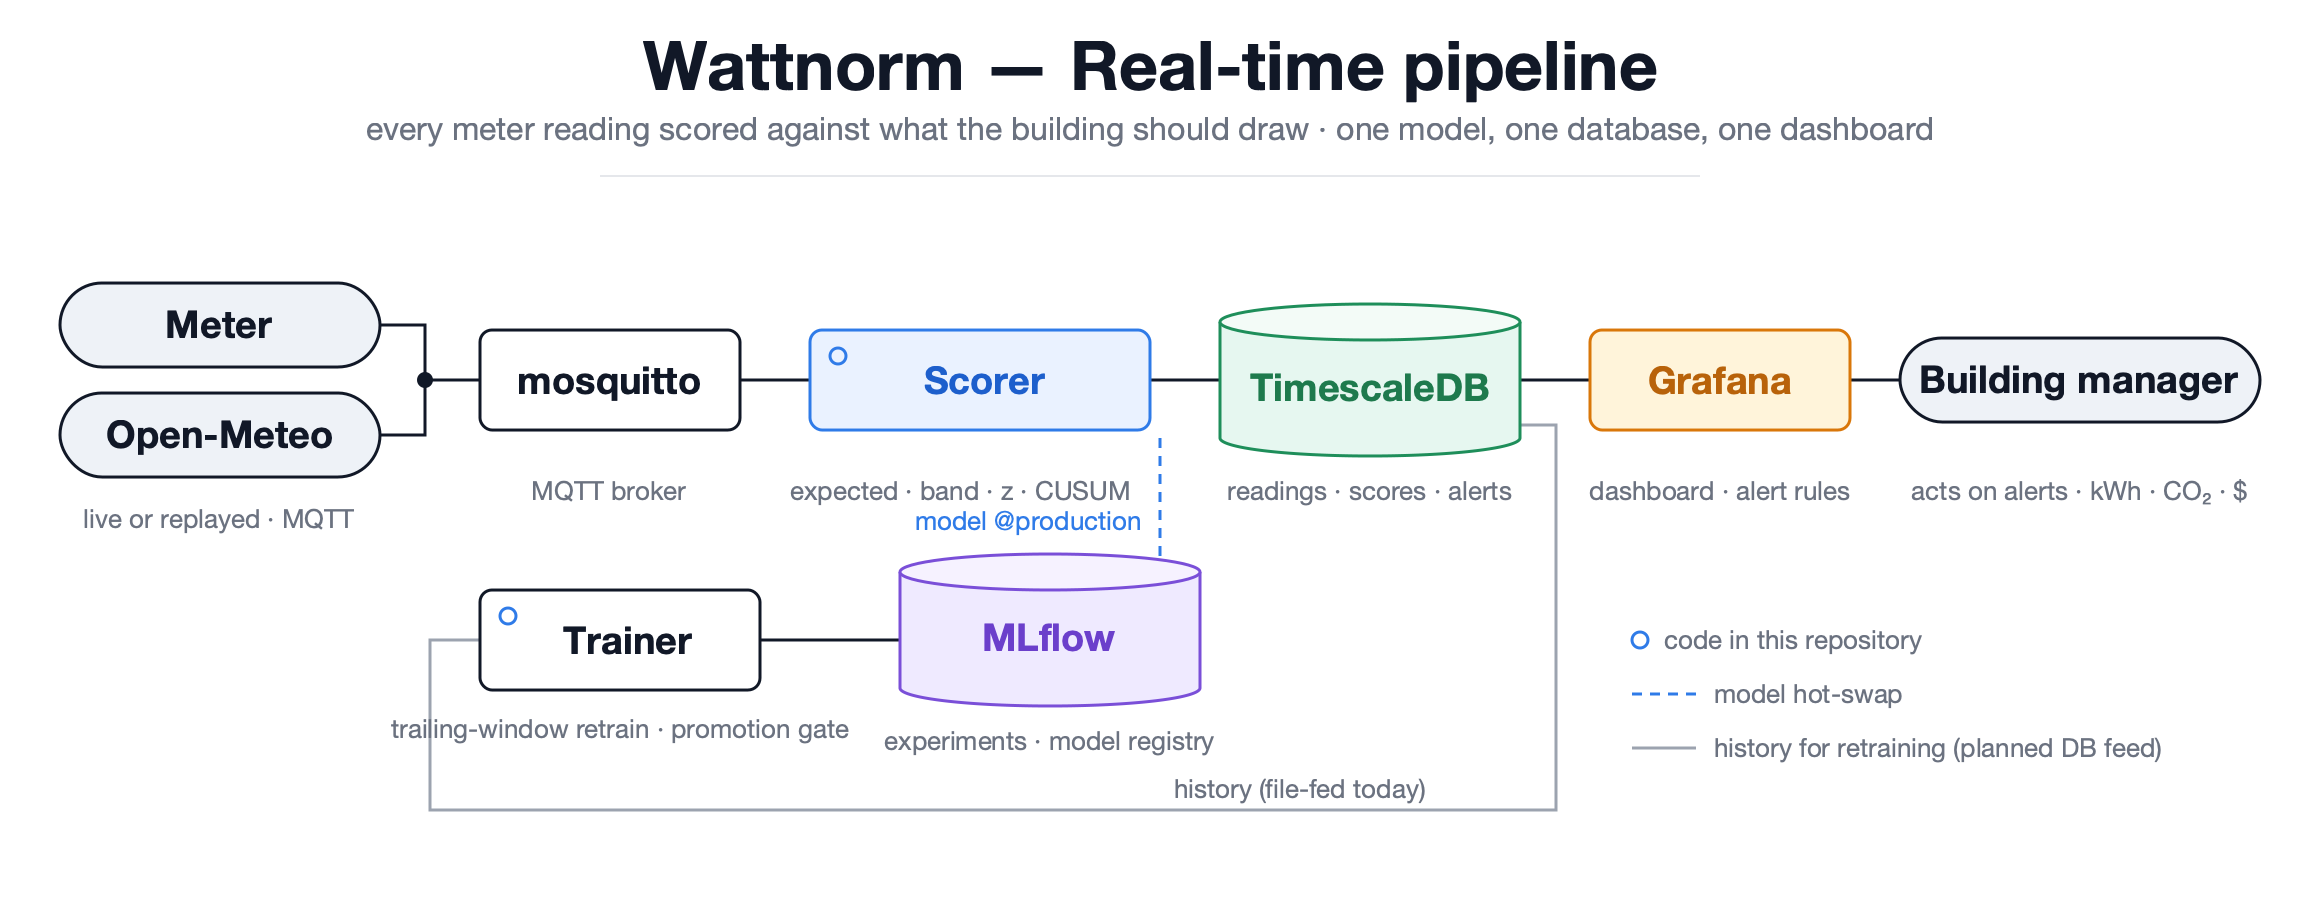
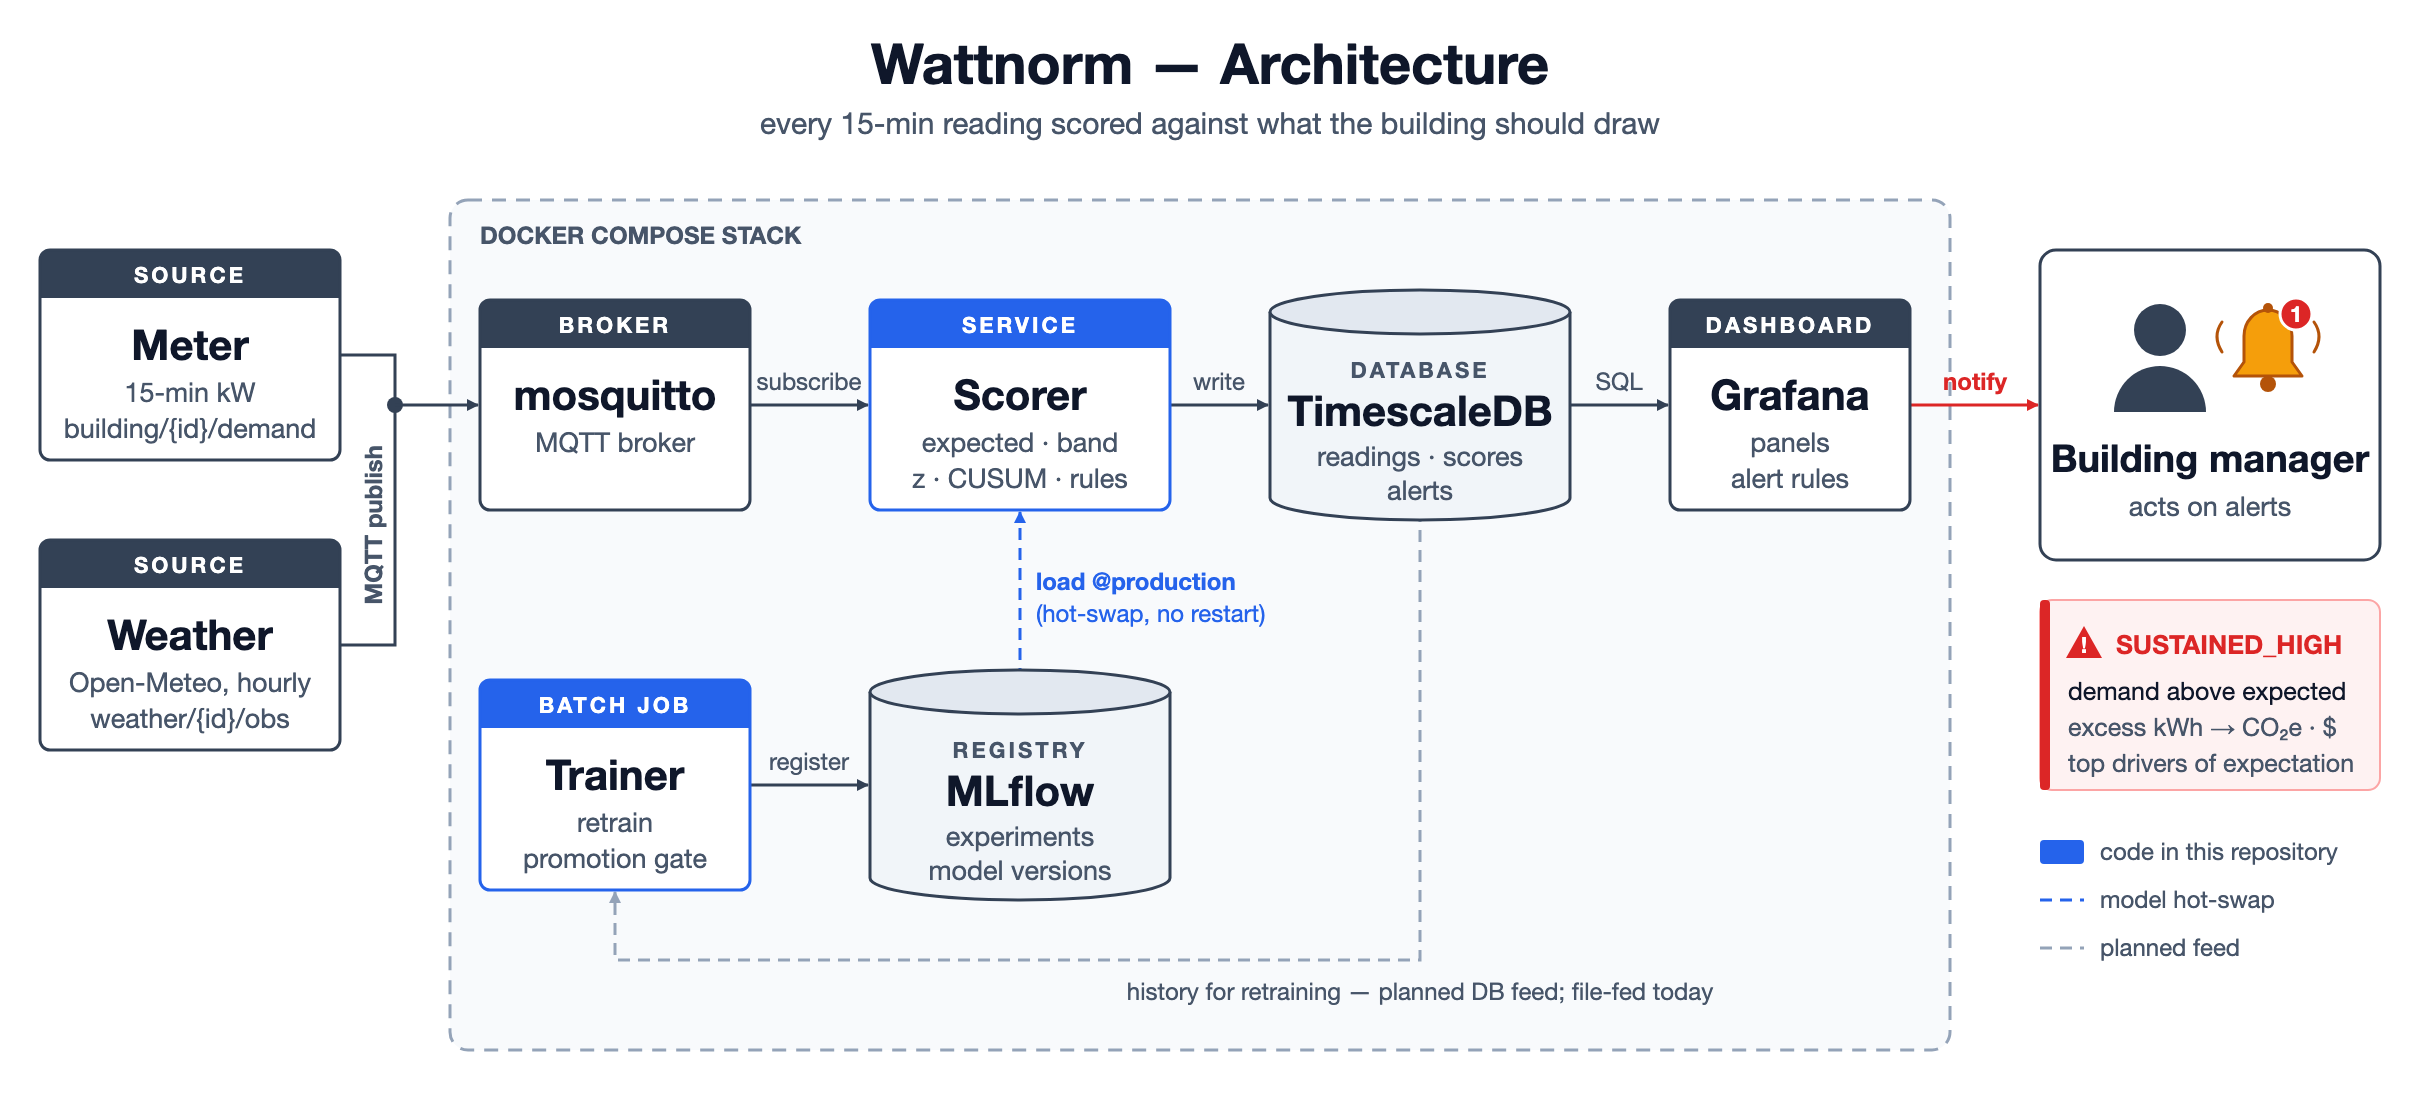
docs: redraw architecture diagram, drop README tagline

diff --git a/README.md b/README.md
@@ -1,7 +1,5 @@
 # Wattnorm — real-time contextual energy anomaly detection for buildings
 
-*Knows what your building should be drawing.*
-
 Buildings account for roughly a third of global energy use, and a large share of that is wasted
 quietly: an air-handling unit left running over a weekend, a lighting schedule that never switched
 back after a holiday, a chiller cycling against a failed sensor. A meter records all of it, but a
